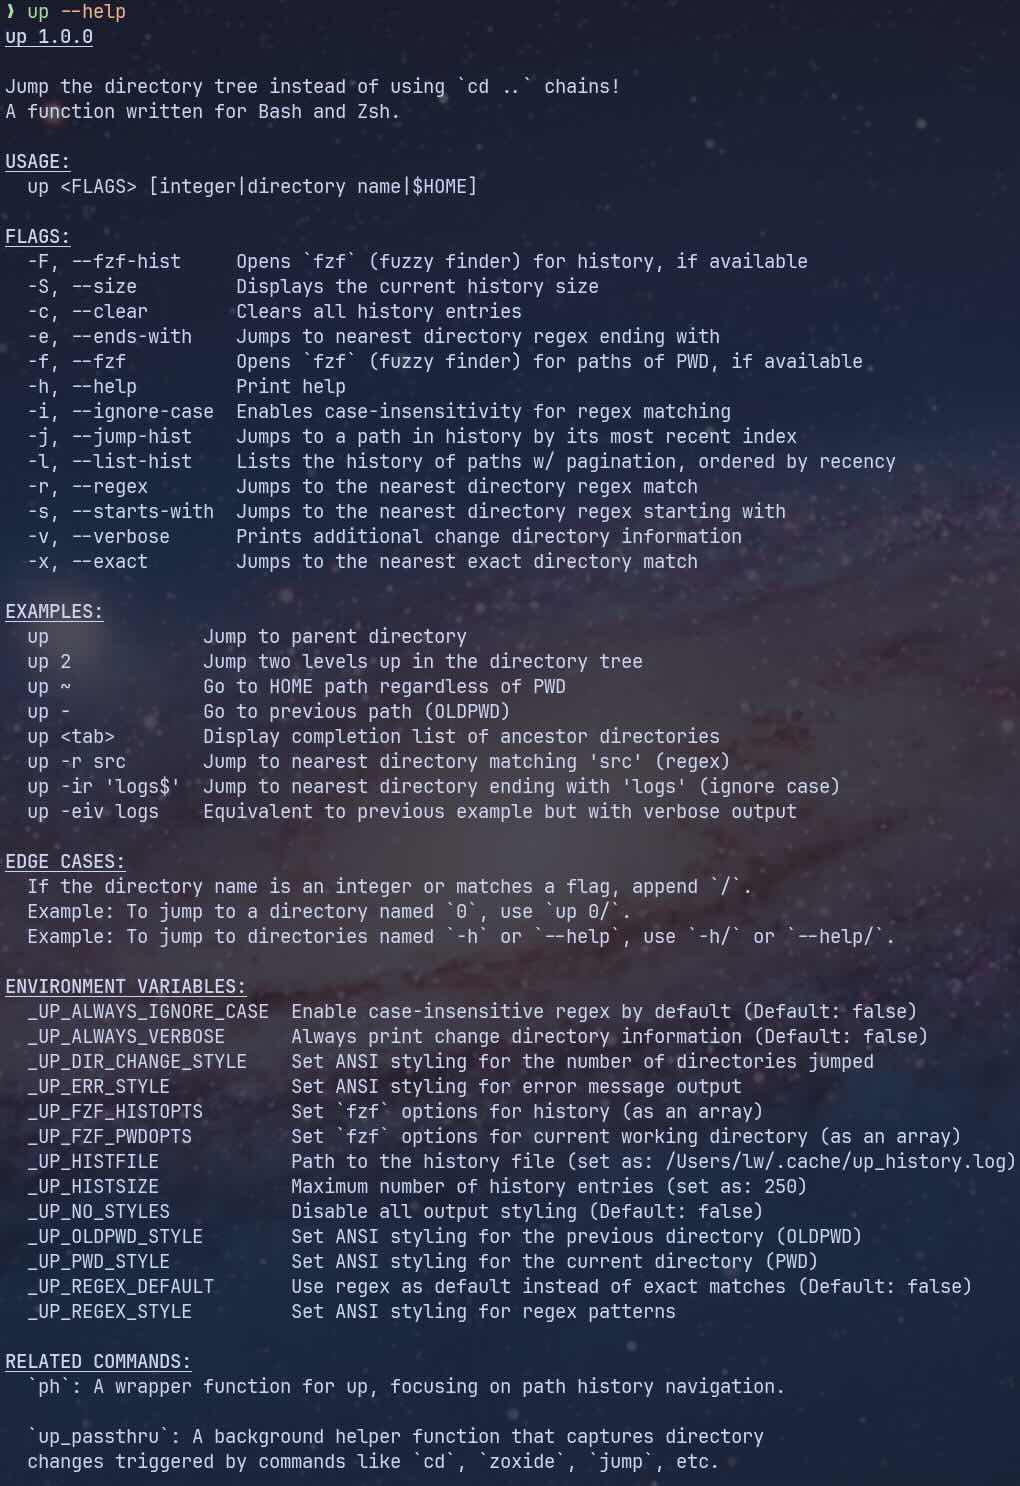
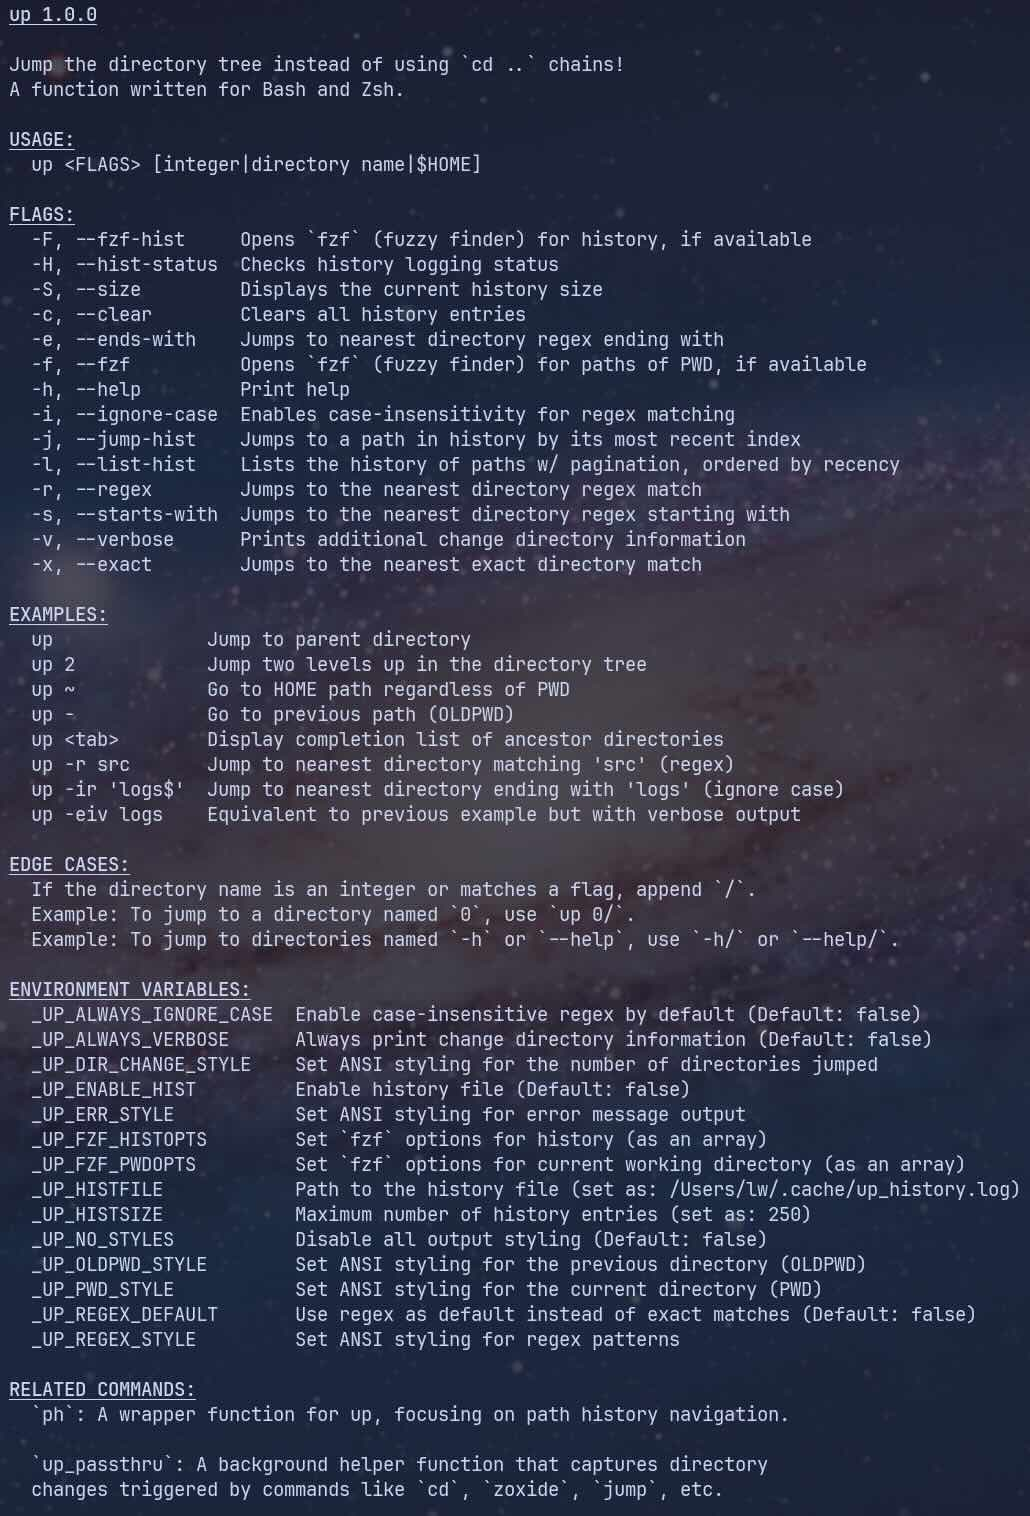
History logging now off by default, set _UP_ENABLE_HIST=true to use

Changed region(s): [[0.0, 0.0, 1.0, 0.9906], [0.8814, 0.8358, 0.9422, 0.8977], [0.5167, 0.031, 0.6078, 0.0619]]

diff --git a/README.md b/README.md
@@ -41,11 +41,11 @@ Kiss tedious `cd ..` chains goodbye!
     - View directory change details with `-v` or enable persistent verbosity with `_UP_ALWAYS_VERBOSE=true`.
     - Customize output colors with style variables or disable them with `_UP_NO_STYLES=true`.
 
-5. **History Features**
-    - Track recently visited directories and jump to them using `ph` or `-f` (`fzf`).
+5. **History Features (Optional)**
+    - Track recently visited directories and jump to them using `ph` (path history) or `-F` (`fzf`) by exporting `_UP_ENABLE_HIST`.
         - Use `up_passthru` to capture directory changes from `cd`, [`zoxide`](https://github.com/ajeetdsouza/zoxide), [`jump`](https://github.com/gsamokovarov/jump), etc.
     - List history in order of recency with `-l`.
-    - Clear history entirely using `-c`.
+    - Clear history using `-c`.
 
 6. **Error Handling**
     - Provides proper exit codes and styled error messages (`_UP_ERR_STYLE`) for clarity; useful for scripts or shell prompts like [starship](https://starship.rs/).
@@ -211,7 +211,7 @@ $ pwd
 
 ##### Alias Tip
 
-Simplify your workflow by setting up an alias for case-insensitive regex jumps. Add this line to your `.bashrc` or `.zshrc` to enable it:
+Simplify your workflow by setting up an alias for case-insensitive regex jumps. Add this line to `.bashrc` or `.zshrc` to enable it:
 
 ```sh
 alias u='up -ri'
@@ -223,7 +223,7 @@ Once added, you'll only need to type `u <regex>` to leverage case-insensitive re
 
 #### `_UP_REGEX_DEFAULT` Environment Variable
 
-Prefer regex-based navigation every time without the need for explicit flags? Add the following line to your `.bashrc`, `.zshrc`, or `.zshenv`:
+Prefer regex-based navigation every time without the need for explicit flags? Add the following line to `.bashrc`, `.zshrc`, or `.zshenv`:
 
 
 ```sh
@@ -251,7 +251,7 @@ $ up --fzf
 
 #### Customizing `fzf` Options
 
-To customize the display of `fzf`, export the `_UP_FZF_PWDOPTS` environment varible within your `.bashrc` or `.zshrc`.
+To customize the display of `fzf`, export the `_UP_FZF_PWDOPTS` environment varible within `.bashrc`, `.zshrc`, or `.zshenv`.
 
 For example,
 
@@ -274,7 +274,7 @@ FZF_PWDOPTS_DEFAULT=(
 	--height=50%
 	--layout=reverse
 	--prompt=" Path: "
-	--header=" cd |  ^P ( ^J/ ^K)"
+	--header=" cd   ^P ( ^J/ ^K)"
 	--preview="tree -C {}"
 	--bind="ctrl-p:toggle-preview"
 	--bind="ctrl-j:preview-page-down,ctrl-k:preview-page-up"
@@ -291,11 +291,17 @@ The line `--layout=reverse` will display `fzf` below the prompt line; `--height=
 
 For inspiration, check out this [detailed `fzf` guide](https://thevaluable.dev/practical-guide-fzf-example/).
 
-### Path History Navigation
+### Path History Navigation (Optional)
+
+To track path history with `up`, add  `.bashrc`, `.zshrc`, or `.zshenv`:
+
+```bash
+export _UP_ENABLE_HIST=true
+```
 
 By default, the path history file is located at `~/.cache/up_history.log`.
 
-Export the `_UP_HISTFILE` to your preferred path in your `.bashrc` or `.zshrc`.
+Export the `_UP_HISTFILE` to your preferred path in `.bashrc`, `.zshrc`, or `.zshenv`.
 
 Likewise, the maximum history size in lines can be set with `_UP_HISTSIZE`.
 
@@ -333,7 +339,7 @@ $ up -F
 $ up --fzf-hist
 ```
 
-To customize the display of `fzf`, export the `_UP_FZF_HISTOPTS` environment varible within your `.bashrc` or `.zshrc`.
+To customize the display of `fzf`, export the `_UP_FZF_HISTOPTS` environment varible within `.bashrc`, `.zshrc`, or `.zshenv`.
 
 ```sh
 # Define array-based fzf options
@@ -353,7 +359,7 @@ FZF_HISTOPTS_DEFAULT=(
 	--height=50%
 	--layout=reverse
 	--prompt=" Path: "
-	--header=" cd |  ^P ( ^J/ ^K)"
+	--header=" cd   ^P ( ^J/ ^K)   Missing Paths Omitted"
 	--preview="tree -C {}"
 	--bind="ctrl-p:toggle-preview"
 	--preview-window=hidden
@@ -366,7 +372,7 @@ The preview window is hidden by default so the path names are not obstructed. Hi
 
 By default, `up` only tracks its own path history.
 
-To capture and track global path histories, use the `up_passthru` helper function by adding aliases to your `.bashrc` and `.zshrc`.
+To capture and track global path histories, use the `up_passthru` helper function by adding aliases to `.bashrc` and `.zshrc`.
 
 ```bash
 alias cd='up_passthru cd'  # cd
@@ -417,7 +423,7 @@ pwd: /Volumes/WD_SSD_1TB/Pictures
 
 #### `_UP_ALWAYS_VERBOSE` Environment Variable
 
-Prefer verbose mode every time without polluting your aliases? Add the following line to your `.bashrc`, `.zshrc`, or `.zshenv`:
+Prefer verbose mode every time without polluting your aliases? Add the following line to `.bashrc`, `.zshrc`, or `.zshenv`:
 
 ```bash
 export _UP_ALWAYS_VERBOSE=true
@@ -485,7 +491,7 @@ export _UP_REGEX_STYLE="\033[38;2;116;199;236m" # Sapphire
 
 #### Turning Off Styling
 
-To turn off styling and display plaintext only, add the following line to your `.bashrc`, `.zshrc`, or `.zshenv`:
+To turn off styling and display plaintext only, add the following line to `.bashrc`, `.zshrc`, or `.zshenv`:
 
 ```bash
 export _UP_NO_STYLES=true

diff --git a/DEVLOG.md b/DEVLOG.md
@@ -11,6 +11,12 @@ Development-related notes.
 
 ## March 2025
 
+### __[2025-03-30]__
+* __Features:__
+  * History features must be enabled by setting `export _UP_ENABLE_HIST=true` in shell config.
+    - Display message when history-related flags used and history not enabled.
+  * Added `-H` / `--hist-status` flags to check whether history logging is on/off.
+* __Changes:__ `up::filter_history_with_fzf` omits missing/deleted paths; only valid paths listed by `fzf`.
 
 ### __[2025-03-29]__
 * __Documentation:__ Fixed typos and inaccuracies.
@@ -19,7 +25,7 @@ Development-related notes.
   - `up::construct_dotted_path`:
     - Swapped for loop to `printf "../%.0s" $(seq 1 "$jump_index")`.
     - Check to see if the passed index value is not larger than possible for `PWD`.
-  - `if $verbose_mode; ...` -> `if [[ "$verbose_mode" == true ]] ...` for Boolean checks (best practice)
+  - `if $verbose_mode; ...` -> `if [[ "$verbose_mode" == true ]] ...` for Boolean checks (best practice).
 * __Features:__
   - Added `up::filter_ancestors_with_fzf` (`-f` / `--fzf`) to jump to ancestor paths within `PWD` only.
   - `_UP_FZF_HISTOPTS`: Environment variable for setting `fzf` options for path history.
@@ -84,16 +90,19 @@ There may be skill-related limitations: I’m not a Bash scripting expert.
 ### March 2025
 
 - [ ] Add pager environment variable.
-- [ ] Clearn and refactor `up.bash` to make it more readable and maintainable.
+- [ ] Clean and refactor `up.bash` to make it more readable and maintainable.
 - [ ] Add `bats` tests for `up.bash` related to regex flags.
 - [ ] Add more styling examples in this `README.md`, e.g., Dracula, gruvbox.
 
 ### Ideas
 
+### March 2025
+
 - [ ] Write a fish-compatible version.
   * I'm not using [fish](https://fishshell.com/) as my primary shell.
 - [ ] Write a binary version of `up.bash` in a language like Go or Rust for universal shell compatibility. (Better idea?)
   * Only completion scripts for target shells would need to be created.
+- [ ] History session management.
 
 ## 🍿Credits
 
